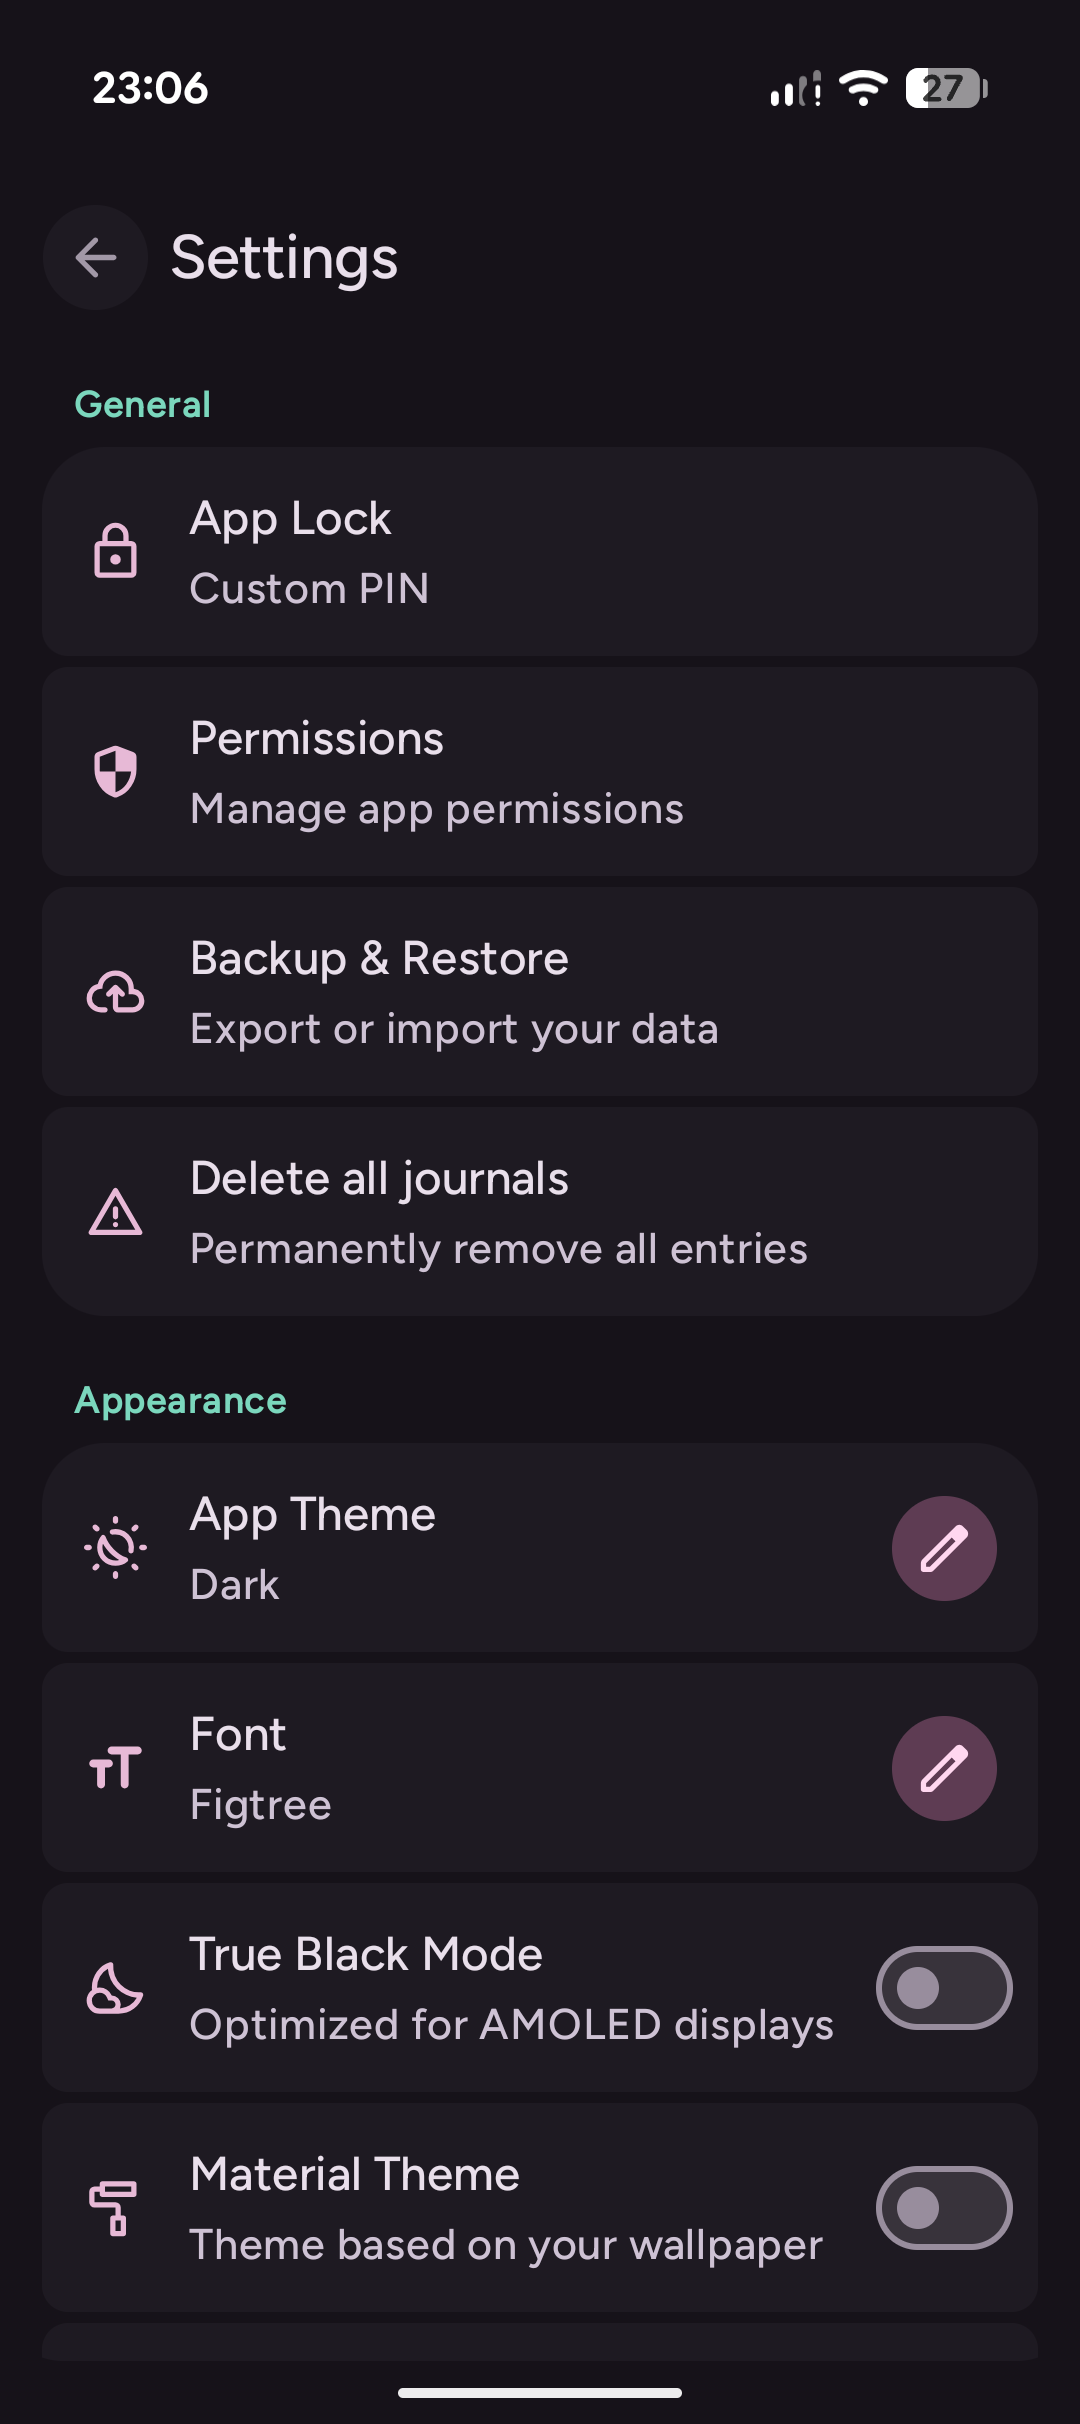
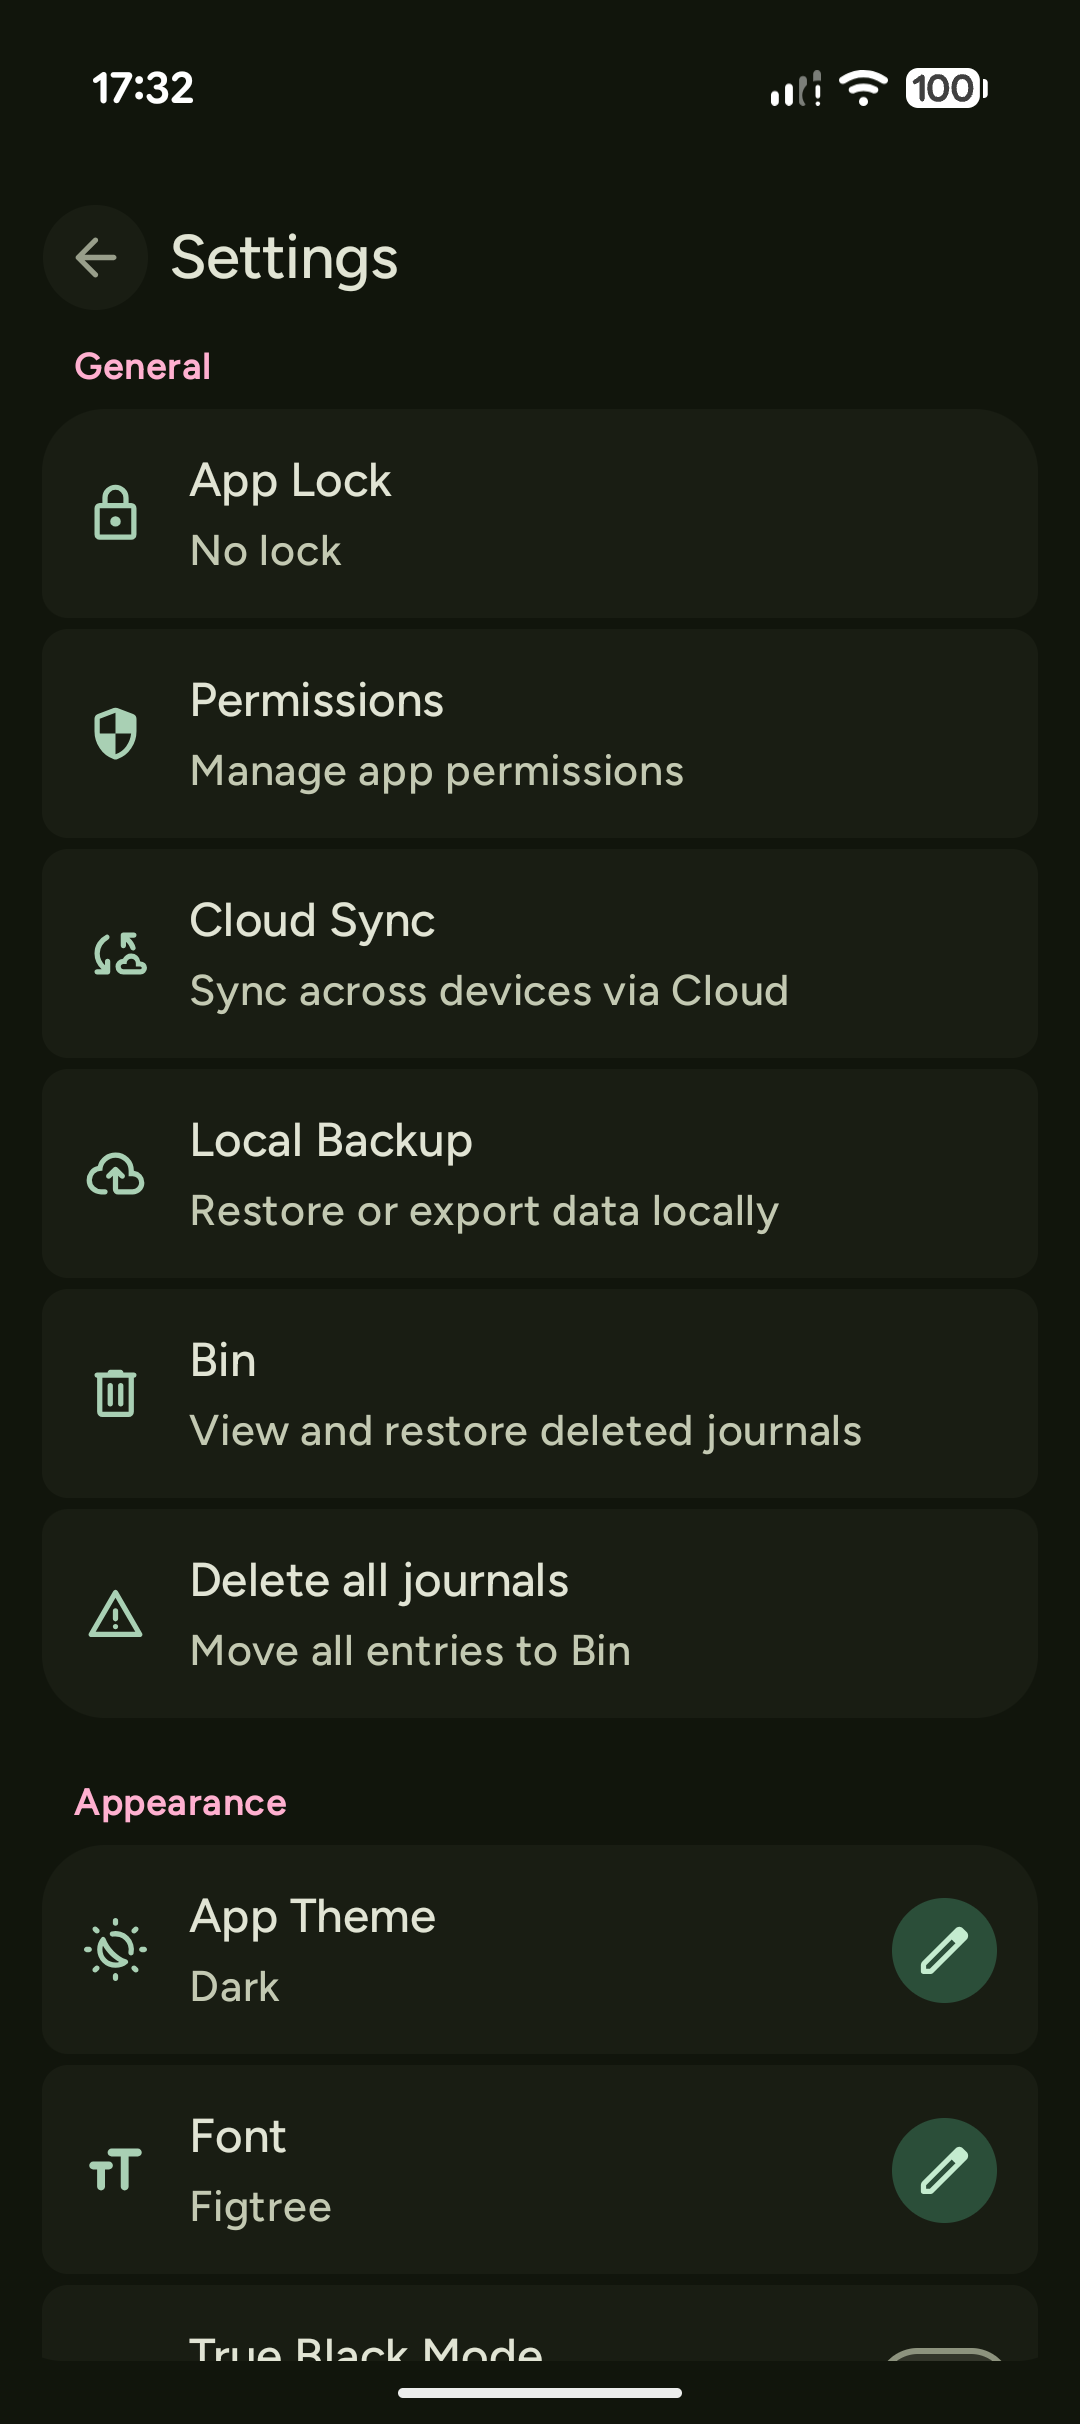
release: v0.7.0

diff --git a/README.md b/README.md
@@ -28,8 +28,8 @@
   <img src="assets/screenshots/editor4.png" width="23%" style="border-radius:12px; margin: 1px;">
   <img src="assets/screenshots/timeline1.png" width="23%" style="border-radius:12px; margin: 1px;">
   <img src="assets/screenshots/timeline4.png" width="23%" style="border-radius:12px; margin: 1px;">
-  <img src="assets/screenshots/search1.png" width="23%" style="border-radius:12px; margin: 1px;">
   <img src="assets/screenshots/settings1.png" width="23%" style="border-radius:12px; margin: 1px;">
+  <img src="assets/screenshots/sync1.png" width="23%" style="border-radius:12px; margin: 1px;">
 </p>
 
 ## Core Features
@@ -54,7 +54,8 @@ June is designed to be more than just text—it's a multimedia capsule of your l
 
 - **Privacy Vault:** Keep your thoughts for your eyes only with multiple locking options. Choose between fast Biometric Unlock (Fingerprint/Face) or a dedicated Custom PIN that exists independently of your phone's system lock.
 - **Expressive Theming:** Enjoy a personalized look with **Dynamic Wallpaper Colors (Material You)** or curated custom themes.
-- **Total Ownership:** 100% offline architecture with full Backup & Restore capabilities—your data never leaves your device.
+- **Total Ownership:** 100% offline architecture with full Backup & Restore capabilities—your data never leaves your device unless you choose to sync it.
+- **Cloud Sync:** Keep your journal in sync across devices using **WebDAV**. Maintain 100% privacy by using your own Nextcloud, ownCloud, or any WebDAV provider.
 
 ## Tech Stack
 